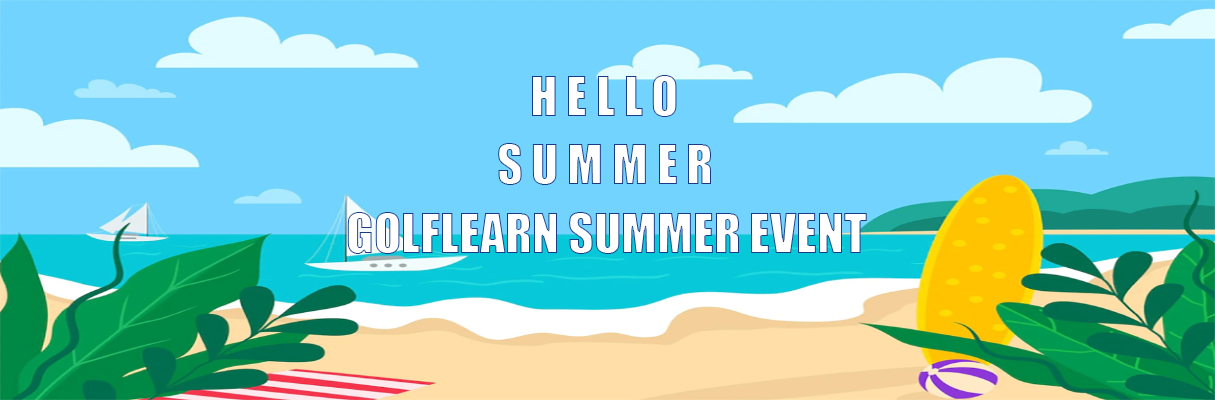
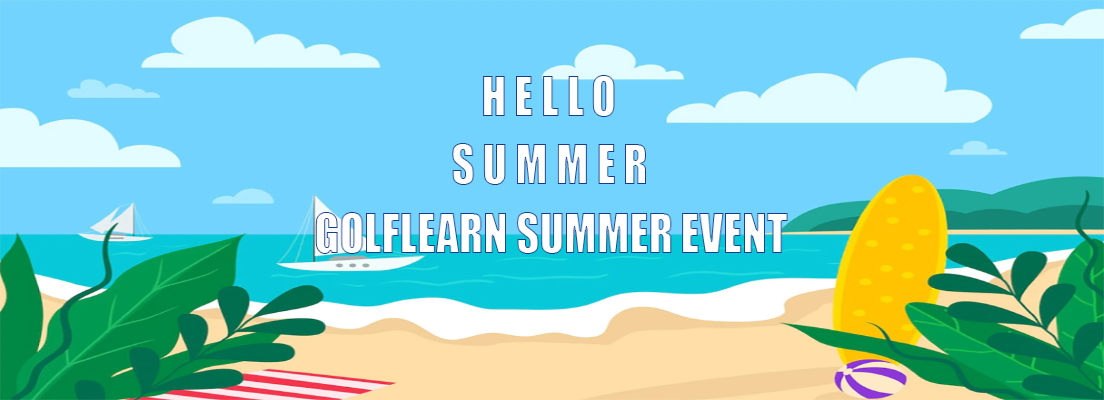
Complete project close #129

diff --git a/front/src/main/webapp/html/main.html b/front/src/main/webapp/html/main.html
@@ -7,6 +7,7 @@
     <meta name="viewport" content="width=device-width, initial-scale=1.0">
     <script src="https://www.w3schools.com/lib/w3.js"></script>
     <link rel="stylesheet" href="../css/main.css">
+    <link rel="stylesheet" href="../css/adbanner.css">
     <link href="https://cdn.jsdelivr.net/npm/bootstrap@5.1.3/dist/css/bootstrap.min.css" rel="stylesheet"
         integrity="sha384-1BmE4kWBq78iYhFldvKuhfTAU6auU8tT94WrHftjDbrCEXSU1oBoqyl2QvZ6jIW3" crossorigin="anonymous">
     <title>Document</title>
@@ -19,9 +20,21 @@
 <main id="main" role="main">
     <div id="wrapper">
         <aside>
-            <div>
-                <img src="" alt="">
+            <div id="slide-adbanner">
+                <ul class="ad">
+                    <li><img src="../img/광고1.png" alt="광고"></li>
+                    <li><img src="../img/광고2.png" alt="광고"></li>
+                    <li><img src="../img/광고3.png" alt="광고"></li>
+                    <li><img src="../img/광고4.png" alt="광고"></li>
+                    <li><img src="../img/광고5.png" alt="광고"></li>
+                    <li><img src="../img/광고6.png" alt="광고"></li>
+                </ul>
+                <p class="controller">
+                    <span class="prev">PREV</span> 
+                    <span class="next">NEXT</span>
+                </p>
             </div>
+            <script src="../jq/adbanner.js"></script>
         </aside>
         <div id="container">
             <div id="content-left">

diff --git a/front/src/main/webapp/jq/addsidogu.js b/front/src/main/webapp/jq/addsidogu.js
@@ -2,8 +2,8 @@ $(function() {
 
 	let $sidoBtn = $('div#sidebar');
 	let sidoguUrl = 'http://localhost:1124/back/seeksidosigu';
-	let $sidoCombo = $('select[name=sido]'); // 첫번째 시도를 선택하여 가져와야 함 option에 selected 된것을 가져와야함
-	let $sigunguCombo = $('select[name=sigungu]');
+	let $sidoCombo = $('select[name=sd]'); // 첫번째 시도를 선택하여 가져와야 함 option에 selected 된것을 가져와야함
+	let $sigunguCombo = $('select[name=sgg]');
 	$sidoCombo.change(function() {
 		// $sidoCombo.empty(); //사용자가 콤보박스를여러번 클릭했을때 append 되는것을 방지함
         $sigunguCombo.empty();

diff --git a/front/src/main/webapp/jq/mypage.js b/front/src/main/webapp/jq/mypage.js
@@ -3,10 +3,10 @@ $(function(){
     //1) 레슨이 눌렸을 때 레슨상세페이지로 연결 
     //레슨 내역에서 아무거나 눌러도 연결되게 -> 만약 img같은것에도 
     //일일이 달아줘야하는 경우 설정하기 
-    let $viewlsnObj = $('div.lsnlist');
+    let $viewlsnObj = $('div.tr');
     $viewlsnObj.click(function(){
         // location.href("/front/html/viewlesson.html");
-        $(location).attr('href', '/front/html/mypropage.html'); //테스트용
+        $(location).attr('href', '/front/html/viewlesson.html'); //테스트용
     });
     
     //수강상태 설정해주기 

diff --git a/front/src/main/webapp/jq/adbanner.js b/front/src/main/webapp/jq/adbanner.js
@@ -4,11 +4,10 @@ currentIdx = 0;
 slideCount = slideImg.length;
 prev = document.querySelector('.prev'); //이전 버튼
 next = document.querySelector('.next'); //다음 버튼
-slideWidth = 1205; //슬라이드이미지 넓이
+slideWidth = 1104; //슬라이드이미지 넓이
 slideMargin = 10; //슬라이드 끼리의 마진값
 makeClone(); // 처음이미지와 마지막 이미지 복사 함수
 initfunction(); //슬라이드 넓이와 위치값 초기화 함수
-
 
 function makeClone() {
 	let cloneSlide_first = slideImg[0].cloneNode(true);

diff --git a/front/src/main/webapp/css/main.css b/front/src/main/webapp/css/main.css
@@ -39,7 +39,7 @@ li:hover {
     width: 100%;
     height: 400px;
     box-sizing: border-box;
-    background-color: #F0D9FF;
+    /* background-color: #F0D9FF; */
 }
 
 #main>#wrapper>#container>#content-left {
@@ -87,7 +87,8 @@ li:hover {
 
 #main>#wrapper>#container>#content-right {
     width: 80%;
-    overflow: hidden;
+    overflow: scroll;
+    height: 1200px;
 }
 
 #main>#wrapper>#container>#content-right>#tag-container {

diff --git a/front/src/main/webapp/html/mypage.html b/front/src/main/webapp/html/mypage.html
@@ -7,6 +7,8 @@
     <link rel="stylesheet" href="../css/mypage.css" />
     <script src="https://ajax.googleapis.com/ajax/libs/jquery/3.6.0/jquery.min.js"></script>
     <script src="../jq/mypage.js"></script>
+    <script src="../jq/main.js"></script>
+    <script src="../jq/loginStatus.js"></script>
     <script src="https://www.w3schools.com/lib/w3.js"></script>
     <title>GolfLearn / 마이페이지</title>
 </head>

diff --git a/front/src/main/webapp/css/adbanner.css b/front/src/main/webapp/css/adbanner.css
@@ -21,10 +21,10 @@ li {
 /* 보여줄 구간의 높이와 넓이 설정 */
 #slide-adbanner {
 	/*전체 컨테이너*/
-	width: 1215px;
+	width: 1104px;
 	height: 400px;
 	position: relative;
-	margin: 50px auto;
+	margin: 0 auto;
 	overflow: hidden; 
 	/*리스트 형식으로 이미지를 일렬로 정렬할 것이기 때문에, 500px 밖으로 튀어 나간 이미지들은 hidden으로 숨겨줘야됨*/
 }

diff --git a/front/src/main/webapp/html/review.html b/front/src/main/webapp/html/review.html
@@ -7,6 +7,8 @@
     <link rel="stylesheet" href="../css/review.css" />
     <script src="https://ajax.googleapis.com/ajax/libs/jquery/3.6.0/jquery.min.js"></script>
     <script src="../jq/review.js"></script>
+    <script src="../jq/main.js"></script>
+    <script src="../jq/loginStatus.js"></script>s
     <script src="https://www.w3schools.com/lib/w3.js"></script>
     <title>레슨후기</title>
 </head>

diff --git a/front/src/main/webapp/html/header.html b/front/src/main/webapp/html/header.html
@@ -6,7 +6,7 @@
     <meta name="viewport" content="width=device-width, initial-scale=1.0">
     <link rel="stylesheet" href="../css/header.css">
     <script src="https://ajax.googleapis.com/ajax/libs/jquery/3.6.0/jquery.min.js"></script>
-    <!-- <script src="../jq/loginStatus.js"></script> -->
+    <script src="../jq/loginStatus.js"></script>
     <title>Document</title>
 </head>
 

diff --git a/front/src/main/webapp/css/base.css b/front/src/main/webapp/css/base.css
@@ -20,6 +20,6 @@ body {
     height: auto;
     min-height: 100%;
     /* position: relative; */
-    padding-bottom: 100px;
+    /* padding-bottom: 100px; */
 }
 

diff --git a/back/src/main/java/com/golflearn/control/LoginServlet.java b/back/src/main/java/com/golflearn/control/LoginServlet.java
@@ -92,20 +92,23 @@ public class LoginServlet extends HttpServlet {
 		
 		String loginResult = mapper.writeValueAsString(map);
 		HttpSession session = request.getSession();
-		int userType= Integer.parseInt((String) session.getAttribute("userType"));
 		String status = (String) session.getAttribute("loginInfo");
 		
 		if (status == null) {
 			map.put("status", 0);
 		}
-		else if(userType == 0) {
-			map.put("status", 1);
-			map.put("type", 0);
-			System.out.println("학생입니다.");
-		} else if(userType == 1){
-			map.put("status", 1);
-			map.put("type", 1);
-			System.out.print("프로입니다.");
+		else {
+			int userType= Integer.parseInt((String) session.getAttribute("userType"));
+			if(userType == 0) {
+				map.put("status", 1);
+				map.put("type", 0);
+				System.out.println("학생입니다.");
+			} else if(userType == 1){
+				map.put("status", 1);
+				map.put("type", 1);
+				System.out.print("프로입니다.");
+			}
+			
 		}
 		loginResult = mapper.writeValueAsString(map);
 		out.print(loginResult);

diff --git a/back/src/main/java/com/golflearn/repository/LessonOracleRepository.java b/back/src/main/java/com/golflearn/repository/LessonOracleRepository.java
@@ -80,7 +80,8 @@ public class LessonOracleRepository implements LessonRepository {
 					Pro pro = new Pro();
 					pro.setProCareer(rs.getString("pro_career"));
 					lesson.setPro(pro);
-					
+//					return lesson;
+					System.out.println("---------------------"+lesson);
 				}
 				
 				//레슨라인1개
@@ -100,8 +101,8 @@ public class LessonOracleRepository implements LessonRepository {
 				
 				//라인을 레슨라이들에 추가
 				lines.add(line);
+
 			}
-			
 			if(lesson == null) {
 				throw new FindException(lsnNo + "번 레슨이 존재하지 않습니다");
 			}
